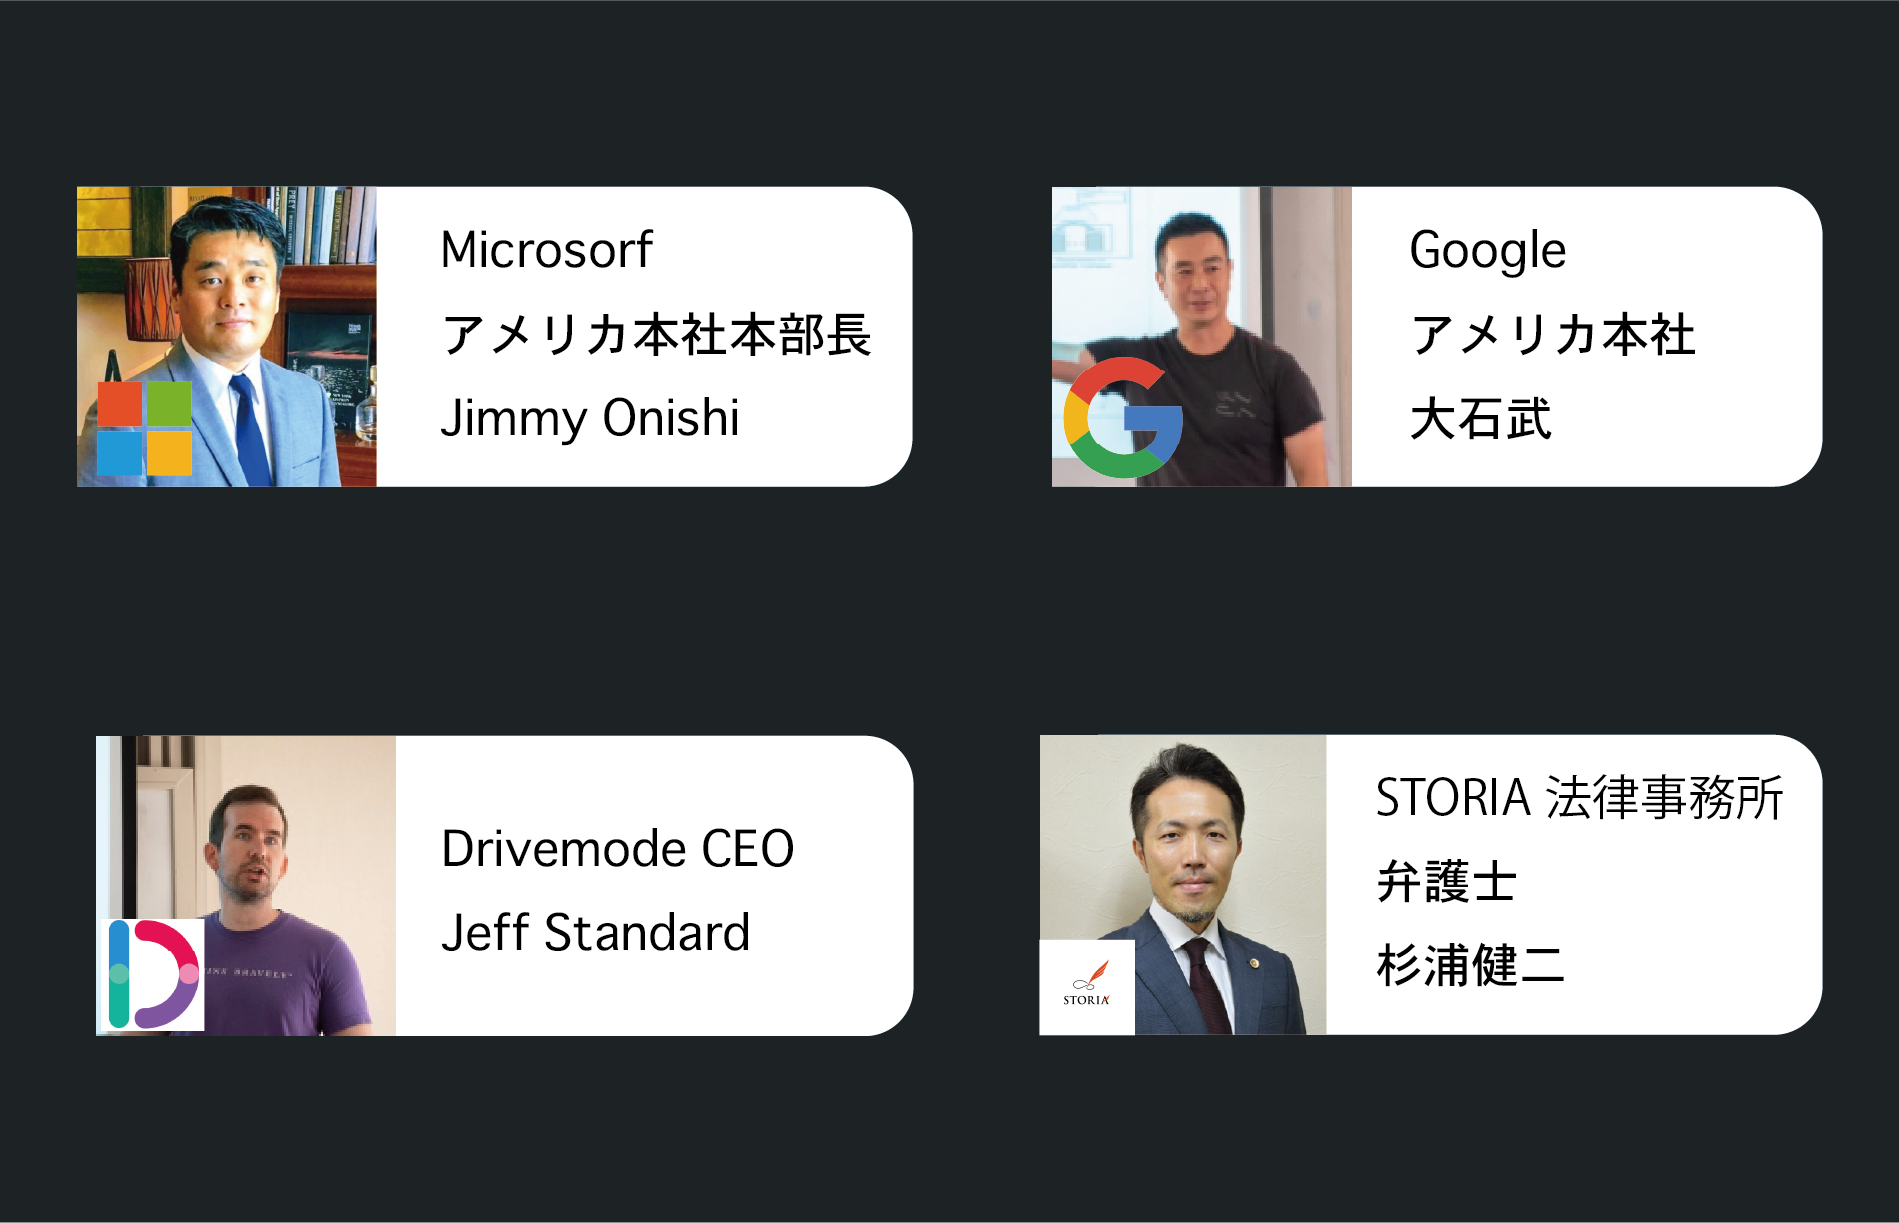
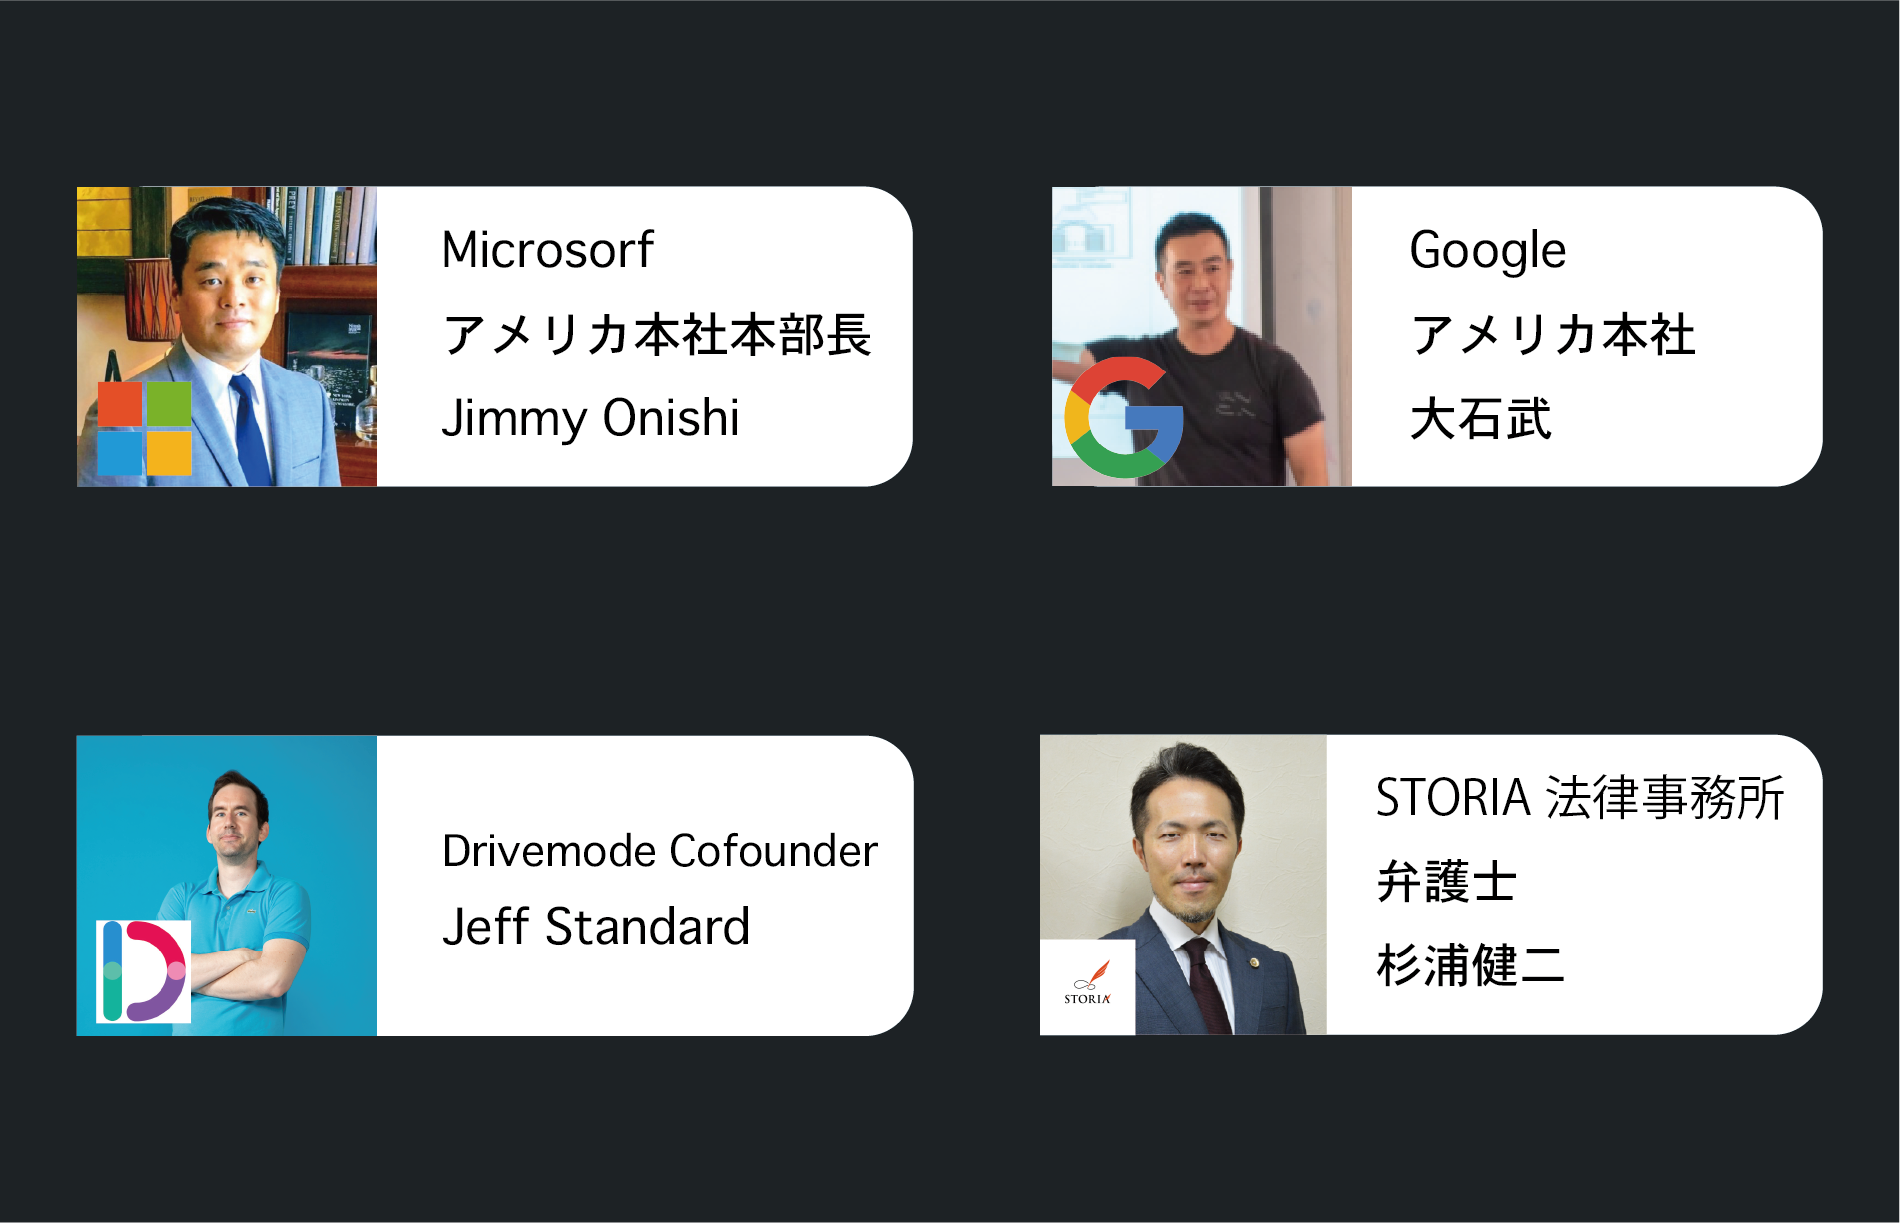
Fix Drivemode contetns

diff --git a/src/components/seminar/short/Intro/index.jsx b/src/components/seminar/short/Intro/index.jsx
@@ -3,48 +3,45 @@ import styled from 'styled-components';
 
 import { Header } from 'components/theme';
 import { Container } from 'components/common';
-import { Speakers, Teachers, Strong, Targets, TeachersIntro } from 'components/seminar/common'
-import { DocWrapper } from './styles';
+import { Speakers, Teachers, Strong, Targets, TeachersIntro } from 'components/seminar/common';
 
-import isshiki from 'assets/speakers-icon/isshiki.png'
+import isshiki from 'assets/speakers-icon/isshiki.png';
 import people from 'assets/illustrations/participants.svg';
 import strong from 'assets/illustrations/strong.svg';
 import seminarPDF from 'assets/pdf/cpp2021-short.pdf';
-import jimmy from 'assets/speakers-icon/jimmy.jpeg'
-import oishi from 'assets/speakers-icon/oishi.png'
-import jeff from 'assets/speakers-icon/jeff.png'
-import luca from 'assets/speakers-icon/luca.png'
-import erik from 'assets/speakers-icon/erik.png'
-import pike from 'assets/speakers-icon/pike.png'
-import aytug from 'assets/speakers-icon/aytug.png'
-
-
+import jimmy from 'assets/speakers-icon/jimmy.jpeg';
+import oishi from 'assets/speakers-icon/oishi.png';
+import jeff from 'assets/speakers-icon/jeff.jpg';
+import luca from 'assets/speakers-icon/luca.png';
+import erik from 'assets/speakers-icon/erik.png';
+import pike from 'assets/speakers-icon/pike.png';
+import aytug from 'assets/speakers-icon/aytug.png';
+import { DocWrapper } from './styles';
 
 export const Wrapper = styled.div`
   text-align: center;
   margin: 3rem auto;
 `;
 
-
 const features = [
   '訪問や視察だけでなく活動、行動がメインの研修',
   'シリコンバレーネットワークを広げ、新たなビジネスチャンス獲得の機会創出',
   '起業家などの経営経験豊富な講師陣と参加者とのディスカッションによる学び',
-]
+];
 
 const participants = [
   '経営企画・新規事業の開拓を担当されている方',
   '経営者、部長、本部長、執行役員次期経営者の方',
   'US西海岸へ進出を考えている企業の方',
   'エコシステムを構築した自治体や大学の方',
-]
+];
 
 const speakers = [
   { img: jimmy, name: 'Jimmy Onihsi', company: 'Microsoft', job: '' },
   { img: oishi, name: 'Takeshi Oishi', company: 'Google', job: '' },
-  { img: jeff, name: 'Jeff Stanford', company: 'Drive mode', job: '' },
+  { img: jeff, name: 'Jeff Standard', company: 'Drive mode', job: '' },
   { img: luca, name: 'Luca', company: 'Uber', job: '' },
-]
+];
 
 const teachers = [
   { img: erik, name: 'Erik Rolland Dean', job: 'College of Business Administration' },
@@ -52,18 +49,17 @@ const teachers = [
   { img: pike, name: 'Roland Pike', job: 'Leader of Digital Transformation and Block Chain Cente' },
   { img: isshiki, name: 'Koichiro Isshiki', job: 'Organizer of this Seminar' },
   // { img: mohammad, name: 'Mohammad Salehan', job: 'BI/Analytics ' },
-]
+];
 
-export const Intro = (props) => {
-  return (
-    <div>
-      <Header />
-      <Wrapper as={Container}>
-        <h1>短期セミナー</h1>
-      </Wrapper>
-      <DocWrapper as={Container}>
-        {/* <img src={isshiki} /> */}
-        {/* <div>
+export const Intro = props => (
+  <div>
+    <Header />
+    <Wrapper as={Container}>
+      <h1>短期セミナー</h1>
+    </Wrapper>
+    <DocWrapper as={Container}>
+      {/* <img src={isshiki} /> */}
+      {/* <div>
           <p>
             本セミナーはロサンゼルスにあるCal Poly Pomona校を拠点として行います。
             Cal PolyはUberをはじめ多くの事業を育んできました。
@@ -71,15 +67,13 @@ export const Intro = (props) => {
             今後予想されるDisruptionを支える最新技術をお伝えし、御社のDXをサポート致します。
           </p>
         </div> */}
-      </DocWrapper>
-      <Targets data={participants} title='本セミナーの対象者' img={people} />
-      <Strong data={features} title='セミナーの特徴' img={strong} linkPDF={seminarPDF} />
-      <div style={{ background: 'white' }}>
-      </div>
-      <TeachersIntro>
-        <Speakers data={speakers} />
-        <Teachers data={teachers} />
-      </TeachersIntro>
-    </div>
-  );
-};
+    </DocWrapper>
+    <Targets data={participants} title="本セミナーの対象者" img={people} />
+    <Strong data={features} title="セミナーの特徴" img={strong} linkPDF={seminarPDF} />
+    <div style={{ background: 'white' }}></div>
+    <TeachersIntro>
+      <Speakers data={speakers} />
+      <Teachers data={teachers} />
+    </TeachersIntro>
+  </div>
+);

diff --git a/src/components/seminar/long/Intro/index.jsx b/src/components/seminar/long/Intro/index.jsx
@@ -11,7 +11,7 @@ import styled from 'styled-components';
 
 import jimmy from 'assets/speakers-icon/jimmy.jpeg';
 import oishi from 'assets/speakers-icon/oishi.png';
-import jeff from 'assets/speakers-icon/jeff.png';
+import jeff from 'assets/speakers-icon/jeff.jpg';
 import luca from 'assets/speakers-icon/luca.png';
 import erik from 'assets/speakers-icon/erik.png';
 import pike from 'assets/speakers-icon/pike.png';
@@ -39,7 +39,7 @@ const participants = [
 const speakers = [
   { img: jimmy, name: 'Jimmy Onihsi', company: 'Microsoft', job: '' },
   { img: oishi, name: 'Takeshi Oishi', company: 'Google', job: '' },
-  { img: jeff, name: 'Jeff Stanford', company: 'Drive mode', job: '' },
+  { img: jeff, name: 'Jeff Standard', company: 'Drive mode', job: '' },
   { img: luca, name: 'Luca', company: 'Uber', job: '' },
 ];
 

diff --git a/src/data/data.js b/src/data/data.js
@@ -18,7 +18,7 @@ import onlineimg from 'assets/illustrations/online-cover.png';
 import jimmy from 'assets/speakers-icon/jimmy.jpeg';
 import jimmyPDF from 'assets/pdf/jimmy-2021-spring.pdf';
 import jeffPDF from 'assets/pdf/jeff-2021-spring.pdf';
-import jeff from 'assets/speakers-icon/jeff.png';
+import jeff from 'assets/speakers-icon/jeff.jpg';
 
 // < ----------------------- pages/index.js ----------------------- >
 // Company's logos
@@ -96,8 +96,8 @@ export const onlineSeminarExamples = [
   },
   {
     title: '',
-    name: 'Jeff Stanford',
-    company: 'Drive mode',
+    name: 'Jeff Standard',
+    company: 'Drivemode',
     personImg: jeff,
     pdfImg: jeffPDF,
   },

diff --git a/src/components/nasa/Examples/index.jsx b/src/components/nasa/Examples/index.jsx
@@ -1,7 +1,7 @@
 import React from 'react';
 import { Card } from 'components/common';
 import styled from 'styled-components';
-// import jeff from 'assets/speakers-icon/jeff.png';
+// import jeff from 'assets/speakers-icon/jeff.jpg';
 import drivemodeLogo from 'assets/company-logos/drivemode.png';
 import logovistaLogo from 'assets/company-logos/logovista.png';
 
